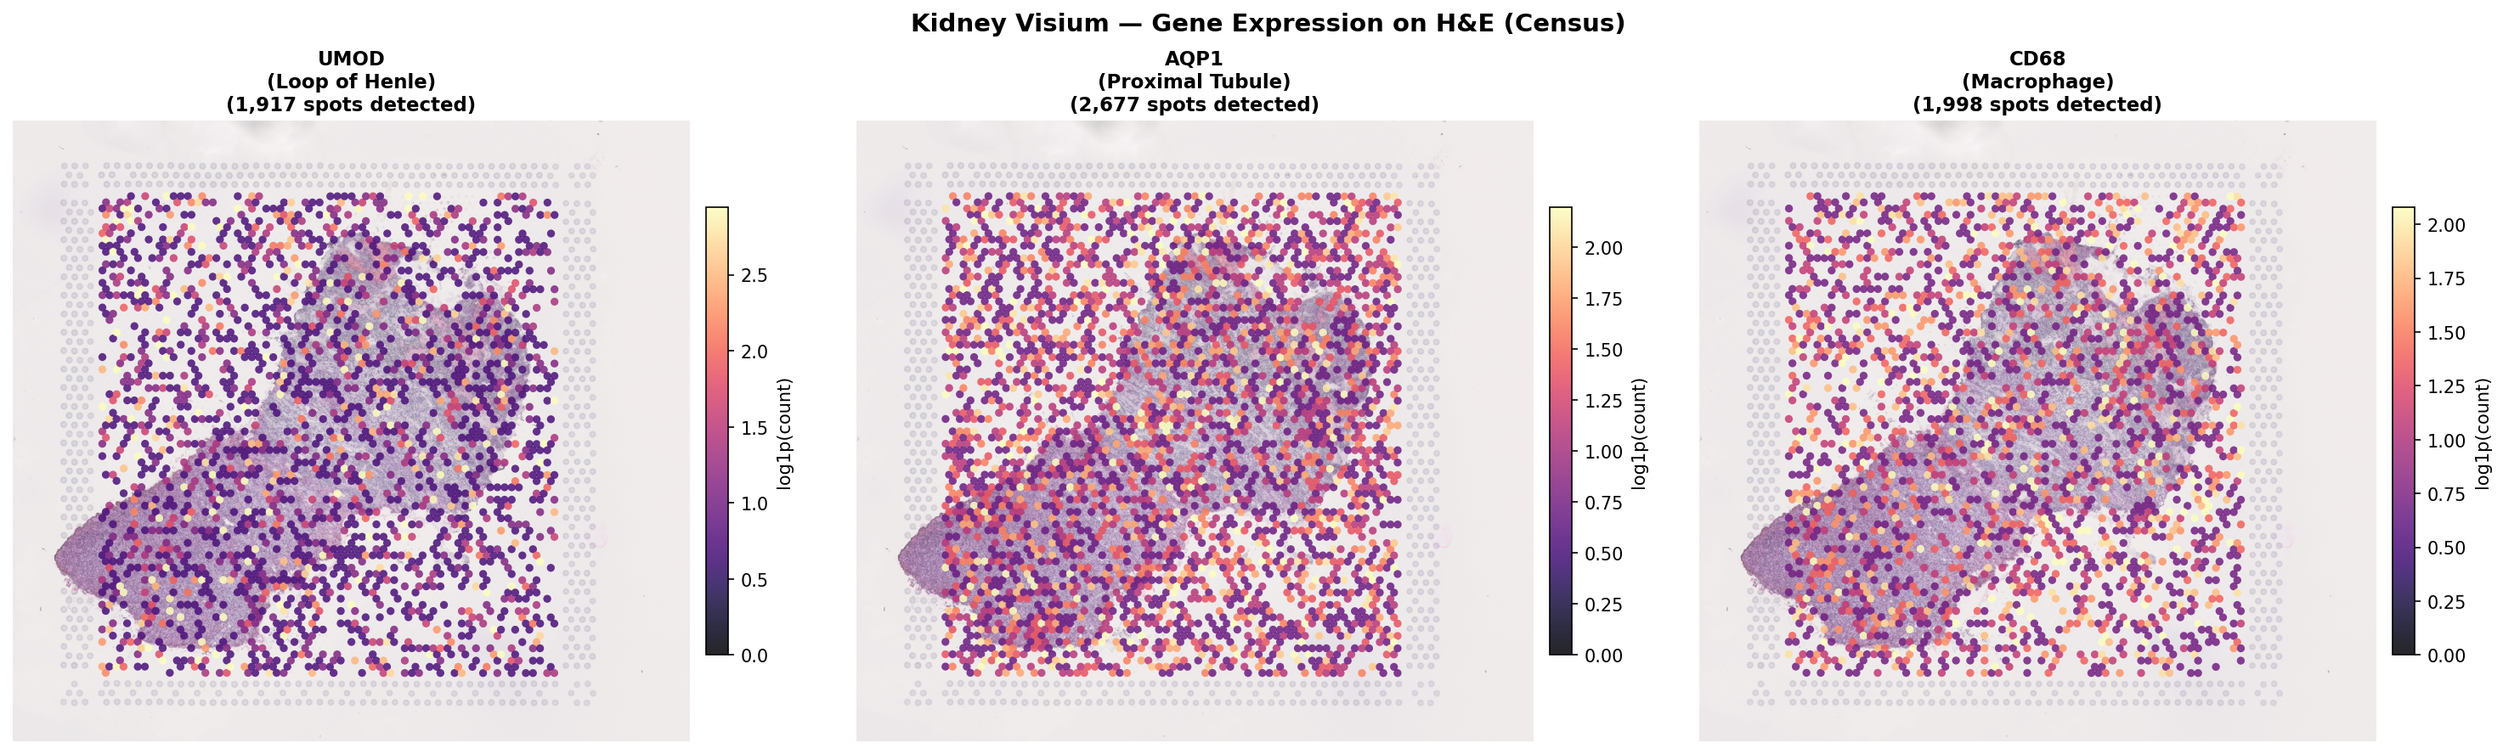
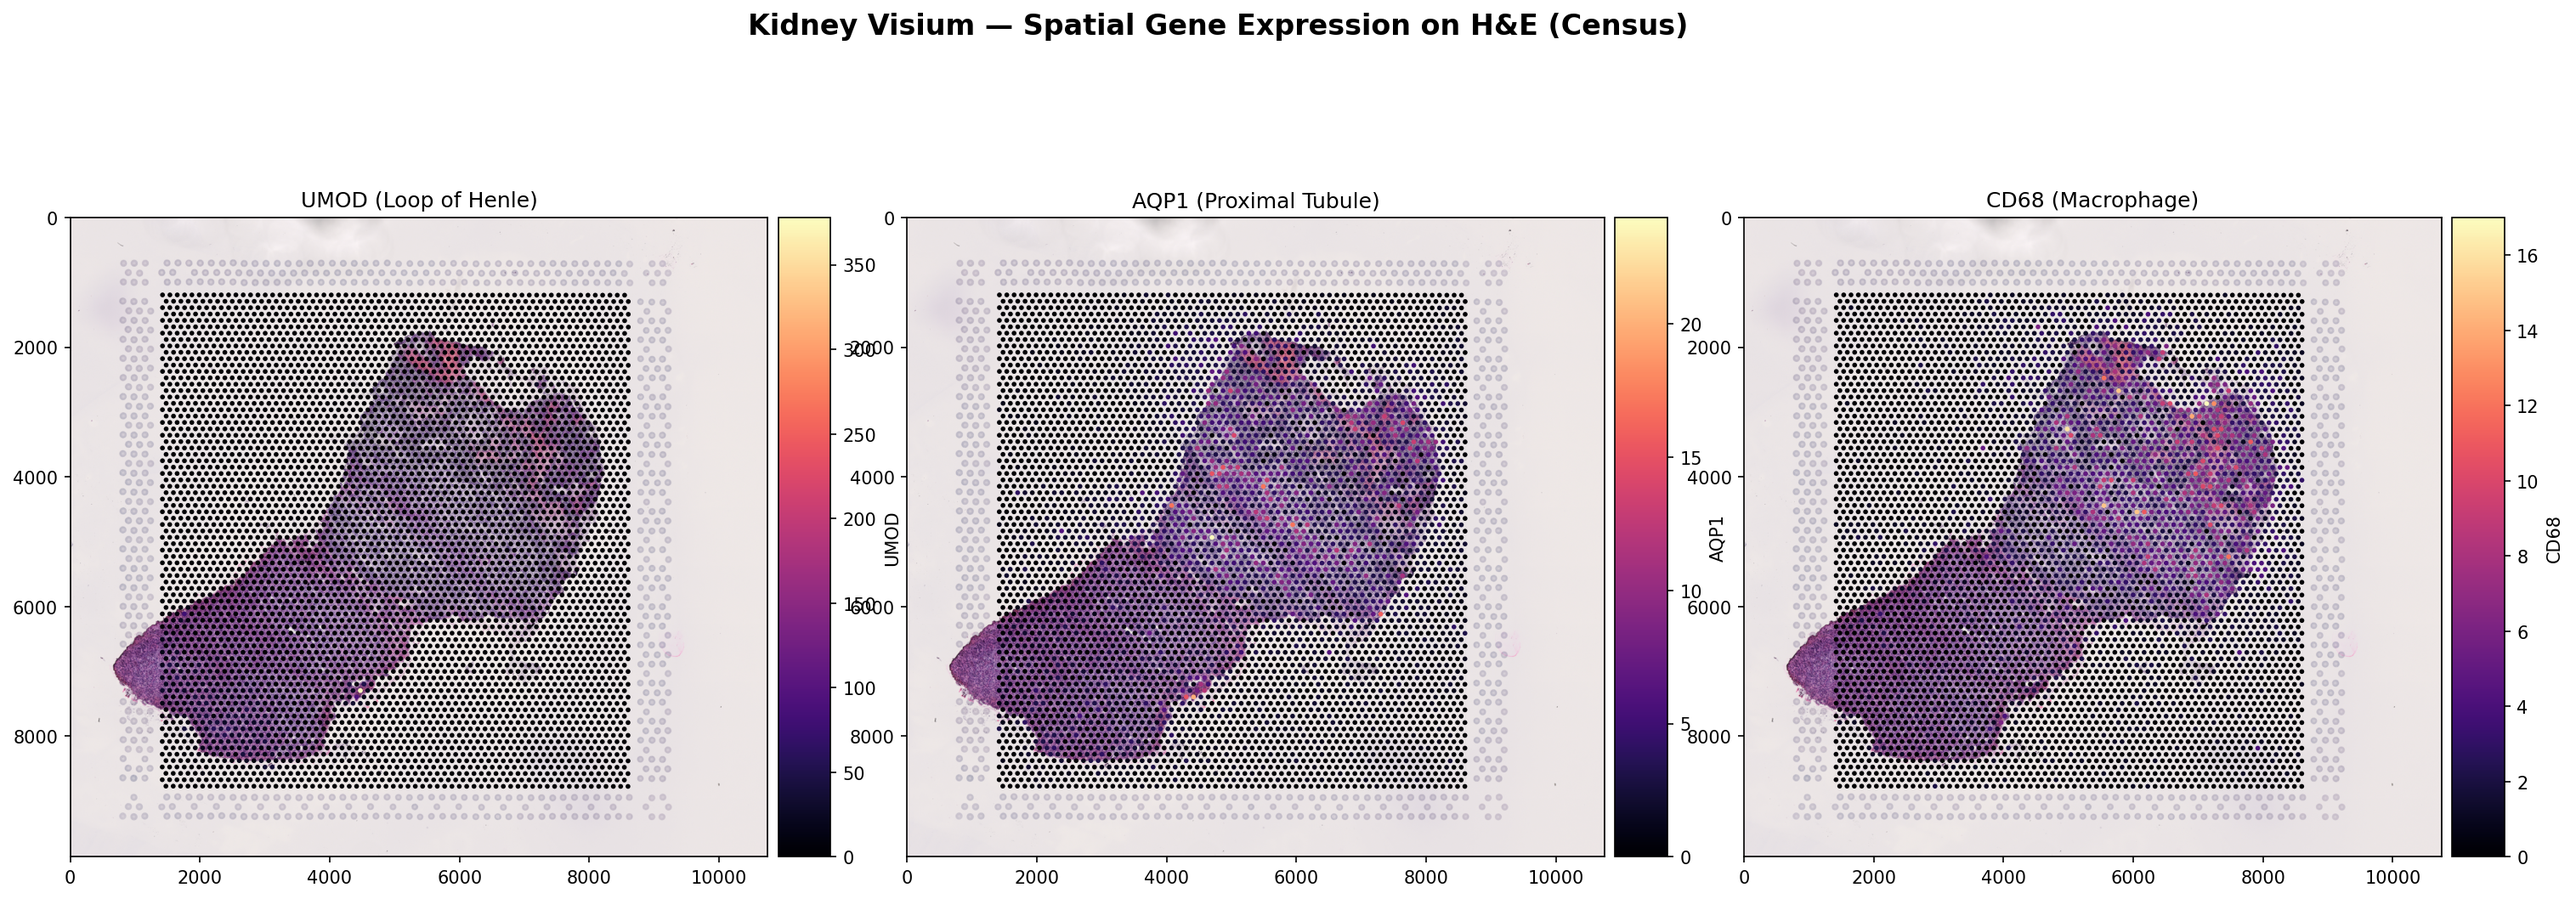
Fix spatial H&E overlay using spatialdata_plot for proper alignment
- Use spatialdata_plot's built-in coordinate transform for accurate H&E overlay
- Cell type map and gene expression (UMOD, AQP1, CD68) properly aligned with tissue
- Remove spatialdata dependency warning note

diff --git a/_posts/2026-03-27-CELLxGENE-Census-API.md b/_posts/2026-03-27-CELLxGENE-Census-API.md
@@ -409,9 +409,7 @@ H&E 조직 이미지 위에 세포 유형을 오버레이한 결과입니다. Lo
 
 ![Kidney Visium Spatial Gene Expression](/assets/images/cellxgene-spatial-expression.png)
 
-H&E 이미지 위에 유전자 발현을 오버레이한 결과입니다. **UMOD**(Loop of Henle marker)는 수질(medulla) 영역에 집중되고, **AQP1**(Proximal Tubule)은 피질(cortex) 전반에 분포하며, **CD68**(Macrophage)은 산발적으로 분포합니다. raw count에 `log1p` 변환을 적용했습니다.
-
-> `spatialdata`는 의존성이 복잡하므로(`geopandas`, `scikit-image`, `xarray` 등) `uv`로 독립 가상환경을 만들거나 Google Colab에서 실행을 권장합니다.
+H&E 이미지 위에 유전자 발현을 오버레이한 결과입니다. **UMOD**(Loop of Henle marker)는 수질(medulla) 영역에 집중되고, **AQP1**(Proximal Tubule)은 피질(cortex) 전반에 분포하며, **CD68**(Macrophage)은 산발적으로 분포합니다.
 
 
 # MCP Tool로 만들기
